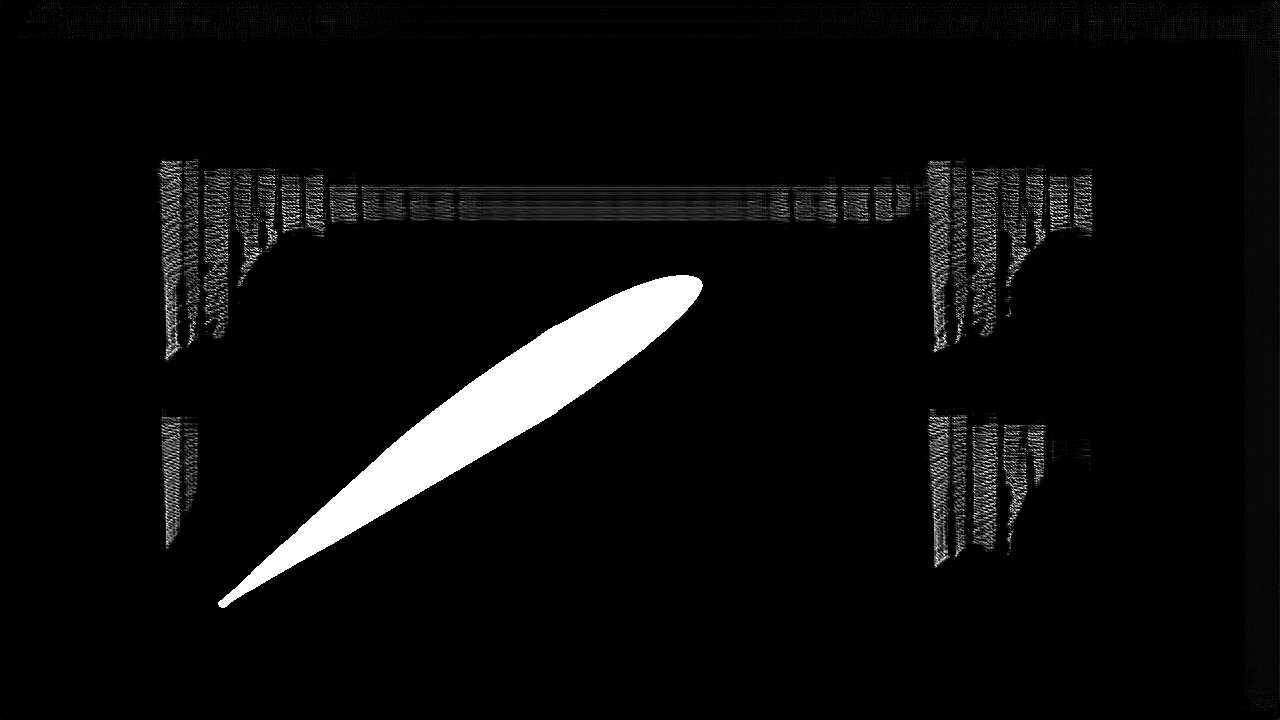
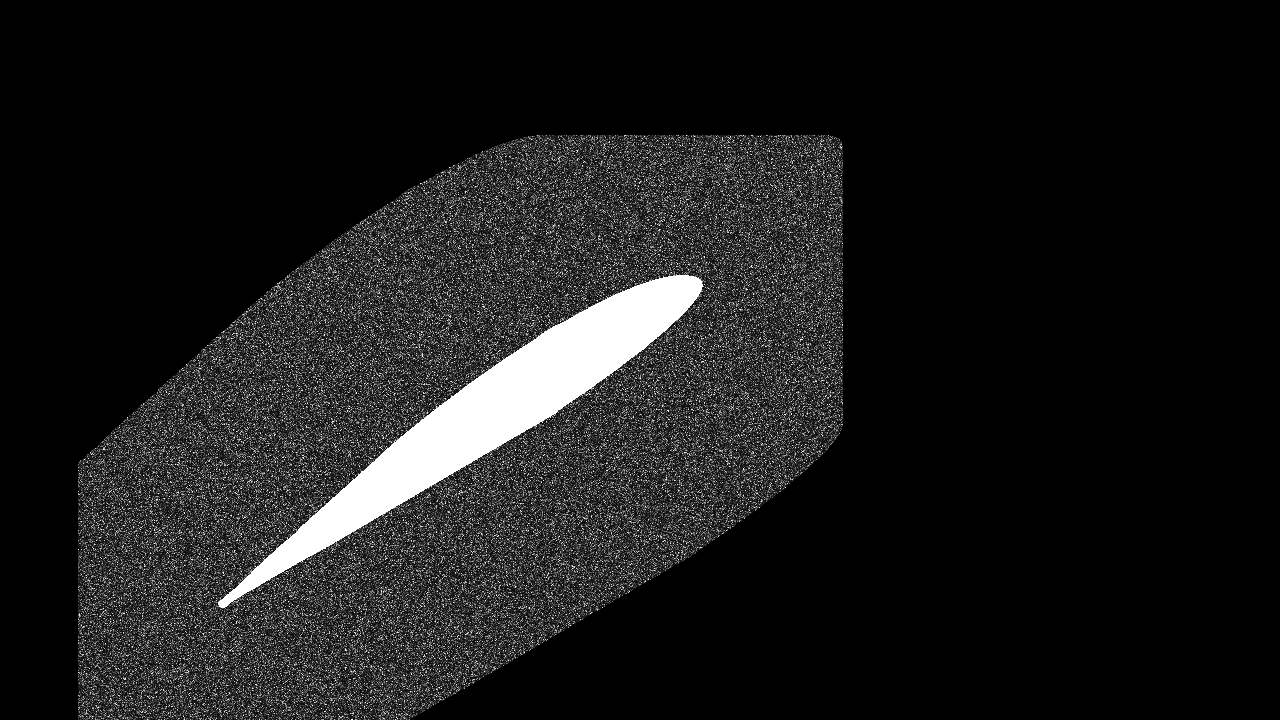
back to normal composite

Changed region(s): [[0.0625, 0.1833, 0.875, 1.0], [0.7188, 0.5806, 0.8438, 0.7944]]

diff --git a/src/inference_paired.py b/src/inference_paired.py
@@ -83,51 +83,28 @@ if __name__ == "__main__":
           # 3. Run inference
           output_image = model(c_t, args.prompt)
 
-    # --- EXPERIMENTAL COMPOSITING STEP ---
+    # --- COMPOSITING STEP ---
     flow_only_pil = transforms.ToPILImage()(output_image[0].cpu() * 0.5 + 0.5)
+    # This part correctly merges the generated flow onto the original input
     input_cv = cv2.imread(args.input_image)
     flow_cv = cv2.cvtColor(np.array(flow_only_pil), cv2.COLOR_RGB2BGR)
 
     h, w, _ = input_cv.shape
     flow_cv = cv2.resize(flow_cv, (w, h))
 
-    # 1. Isolate the airfoil from the input image
-    gray_input = cv2.cvtColor(input_cv, cv2.COLOR_BGR2GRAY)
-    _, airfoil_mask = cv2.threshold(gray_input, 10, 255, cv2.THRESH_BINARY)
-
-    # 2. Define the "flow zone" by expanding (dilating) the airfoil shape
-    # You can make the kernel larger (e.g., (15,15)) to expand the zone further
-    kernel = np.ones((15, 15), np.uint8)
-    dilated_mask = cv2.dilate(airfoil_mask, kernel, iterations=20)
-    # The flow zone is the area in the dilated mask that is NOT the airfoil itself
-    flow_zone_mask = cv2.subtract(dilated_mask, airfoil_mask)
-
-    # 3. Isolate the misplaced flow generated by the model
+    # Create a mask of the non-black pixels in the flow image
     gray_flow = cv2.cvtColor(flow_cv, cv2.COLOR_BGR2GRAY)
-    _, generated_flow_mask = cv2.threshold(gray_flow, 10, 255, cv2.THRESH_BINARY)
-    
-    # "Cut" the flow pixels from the generated image
-    source_pixels = flow_cv[generated_flow_mask > 0]
+    mask = gray_flow > 0
 
-    # 4. Create a new image by pasting the airfoil onto a black canvas
-    final_image = np.zeros_like(input_cv)
-    final_image[airfoil_mask > 0] = input_cv[airfoil_mask > 0]
+    # Create a copy of the input image to draw on
+    final_image = input_cv.copy()
     
-    # 5. "Paste" the cut flow pixels into the defined flow zone
-    if len(source_pixels) > 0:
-        target_coords = np.argwhere(flow_zone_mask > 0)
-        
-        # If we have more target spots than source pixels, repeat the source pixels
-        num_repeats = int(np.ceil(len(target_coords) / len(source_pixels)))
-        pasted_pixels = np.tile(source_pixels, (num_repeats, 1))[:len(target_coords)]
-        
-        # Shuffle the pixels for a more random placement
-        np.random.shuffle(pasted_pixels)
-        
-        # Place the pixels onto the final image
-        final_image[target_coords[:, 0], target_coords[:, 1]] = pasted_pixels
+    # Where the mask is true (i.e., where the flow is), replace the pixels
+    # with the pixels from the flow image.
+    final_image[mask] = flow_cv[mask]
 
     # --- SAVE THE FINAL COMPOSITE IMAGE ---
+    # Save the merged image with a new name
     composite_filename = bname.replace('.png', '_composite.png')
     cv2.imwrite(os.path.join(args.output_dir, composite_filename), final_image)
     
